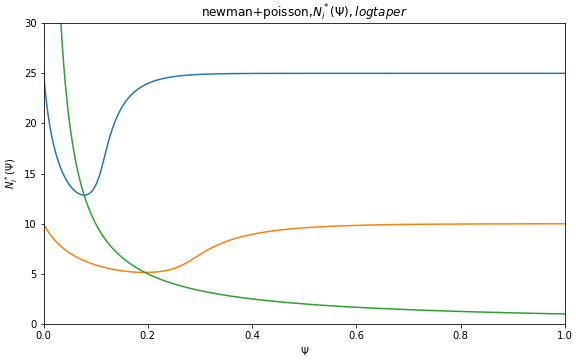
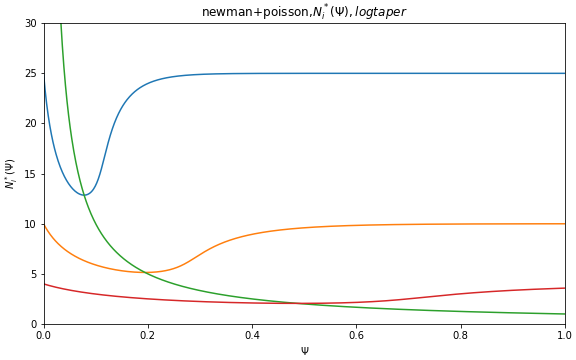
Playing around with plotting equilibrium

Changed region(s): [[0.2188, 0.825, 0.75, 0.8556], [0.75, 0.7944, 0.9688, 0.825], [0.0938, 0.7944, 0.2188, 0.825]]

diff --git a/contagion/graph_newman_poisson.py b/contagion/graph_newman_poisson.py
@@ -16,6 +16,7 @@ def labelSubplot(ax,title,xlabel,ylabel):
     ax.set_title(title)
     ax.set_xlabel(xlabel)
     ax.set_ylabel(ylabel)
+    ax.grid()
     
 CL_log10 = [1E-09,1E-08,1E-07,1E-06,1E-05,1E-04,1E-03,1E-02,1E-01,.99999999]
 CL_percentile = np.arange(0,1.0001,0.01)
@@ -31,6 +32,7 @@ fig,ax = plt.subplots(figsize=(8,5),constrained_layout=True)
 plt.plot(unit_grid,[nnp.approx_bestNi(1-Ψ, nnp.u_Nlogtaper_H) for Ψ in unit_grid])
 plt.plot(unit_grid,[nnp.approx_bestNi(1-Ψ, nnp.u_Nlogtaper_L) for Ψ in unit_grid])
 plt.plot(unit_grid,[1/Ψ for Ψ in unit_grid])
+plt.plot(unit_grid,[nnp.approx_bestNi(1-Ψ, lambda N: nnp.u_Nlogtaper(N,4,0.5)) for Ψ in unit_grid])
 labelSubplot(ax, r'newman+poisson,$N_i^*(\Psi),logtaper$',r'$\Psi$',r'$N_i^*(\Psi)$')
 ax.set_ylim([0,30])
 ax.set_xlim([0,1])
@@ -49,7 +51,6 @@ def plot_Ψiteration(Ai_list,utilfunc_list,speciallabel):
         ax.scatter(unit_grid, newΨ_grid, label=r'$T=$'+str(T), marker='.')
     ax.set_ylim([0,1])
     ax.set_xlim([0,1])
-    ax.grid()
     ax.legend()
     labelSubplot(ax, 'newman+poisson,Ψ(N(Ψ)),'+speciallabel, '$Ψ$', '$Ψ(\{N_i^*(Ψ)\})$')
     plt.savefig('graph_newman_poisson_Ψ(N(Ψ))_'+speciallabel+'.png')
@@ -60,8 +61,6 @@ plot_Ψiteration([0.5,0.5],[nnp.u_Nlogtaper_H,nnp.u_Nlogtaper_L],'vlogtaper2510'
 
 
 #%% Little test to try to find multiple equilibria.
-
-
 def plot_Ψiteration_differencetest(Ai_list,utilfunc_list):
     xmn,xmx = 0.1,0.125
     ytol = 0.002
@@ -73,17 +72,52 @@ def plot_Ψiteration_differencetest(Ai_list,utilfunc_list):
         ax.scatter(smol_grid, newΨdiff_grid, label=r'$T=$'+str(T), marker='.')
     ax.set_ylim([-ytol,ytol])
     ax.set_xlim([xmn,xmx])
-    ax.grid()
     ax.legend()
     plt.show()
-    
 #plot_Ψiteration_differencetest([0.5,0.5],[nnp.u_Nlogtaper_H,nnp.u_Nlogtaper_L])   
 
-#%% Plot T vs equilibrium V.
+#%% Plot T vs equilibrium V, along with prevalences?
+
+def plot_equilibriumvsT(Ai_list,utilfunc_list,speciallabel):
+    '''Iterate through T, find an equilibrium edge risk at each point. 
+    Plug that in to get choices and prevalences. Plot  two graphs.'''
+    #unit_grid = np.arange(0.15,0.155,0.00001)
+    #Calculate the gridpoints: eqlb edge risk, eqlb connections, eqlb r_infty
+    equilV_grid = [nnp.approx_equilibriumV(T, Ai_list, utilfunc_list) for T in unit_grid]
+    equilΨ_grid = [1-V for V in equilV_grid]
+    Ni_grids = [[nnp.approx_bestNi(V,utilfunc) for V in equilV_grid] for utilfunc in utilfunc_list]
+    Rinfty_grids = [[nnp.calc_p(Ni, V) for Ni,V in zip(Ni_grid,equilV_grid)] for Ni_grid in Ni_grids]
+    
+    # First plot a graph of risk and prevalence.
+    fig,ax = plt.subplots(figsize=(8,8),constrained_layout=True)
+    ax.plot(unit_grid,unit_grid,c='black',linestyle='dotted')#45degree line
+    
+
+    #ax.plot(unit_grid, equilV_grid, label=r'$V_{eq}$', marker='.')
+    for i,Ri_grid in enumerate(Rinfty_grids):
+        ax.plot(unit_grid, Ri_grid, label=r'$R_{\infty '+str(i)+r'}$', marker='.')
+    ax.plot(unit_grid, equilΨ_grid, label=r'$Ψ_{eq}$', marker='.')
+    
+    ax.set_ylim([0,1])
+    ax.set_xlim([0,1])
+    ax.legend()
+    labelSubplot(ax, 'newman+poisson, T vs equilibrium prevalence, '+speciallabel, '$T$', '')
+    plt.show()
+    
+    
+    #Then plot a graph of choices.
+    fig,ax = plt.subplots(figsize=(8,8),constrained_layout=True)
+    
+    
+    for i,Ni_grid in enumerate(Ni_grids):
+        ax.plot(unit_grid, Ni_grid, label='$N_'+str(i)+'$', marker='.')
+    
+    labelSubplot(ax, r'newman+poisson, T vs $N_i^*(V^*(T))$, '+speciallabel, '$T$', '')
+    
+    
 
 
-
-
+plot_equilibriumvsT([0.5,0.5],[nnp.u_Nlogtaper_H,nnp.u_Nlogtaper_L],'vlogtaper2510')    
 
 
 

diff --git a/contagion/numsolve_newman_poisson.py b/contagion/numsolve_newman_poisson.py
@@ -157,6 +157,7 @@ def approx_bestNi(V,utilfunc):
 #%%Iterate {v_i} and W to get fixed points.
 
 def iterate_V(V,T,Ai_list,utilfunc_list):
+    "finds V(N(V))"
     Nistar_list = [approx_bestNi(V,utilfunc) for utilfunc in utilfunc_list]
     return approx_V(T,Ai_list,Nistar_list)
 
@@ -172,7 +173,12 @@ def SPP_v_singletype(V,utilfunc):
     negSPPU = lambda N: - utilfunc(N) + calc_p(N,V)
     return optimize.minimize_scalar(negSPPU,bounds=(0, 1000), method='bounded',options={'xatol': Ɛ}).x
 
+#%% Use iteration function to get equilibrium V
 
+def approx_equilibriumV(T,Ai_list,utilfunc_list):
+    "Finds a point where V(N(V))=V. Doesn't check for multiple equilibria."
+    equilbriumfunc = lambda V: iterate_V(V,T,Ai_list,utilfunc_list) - V
+    return optimize.newton(equilbriumfunc,1-T)
 
     
         

diff --git a/contagion/notes_newman_twotype.md b/contagion/notes_newman_twotype.md
@@ -258,3 +258,4 @@ Need to ponder the significance thereof.
     - Somehow shoehorn in the gamma / negbinom distributions to connect to Schreiber paper?
     - Come up with some sort of validation comparison
     - What happens to ultimate prevalence if the parameters change midway through epidemic. (Equivalently? Infect some random fraction of people as starting condition???)
+    - Vaccines and other interventions?
